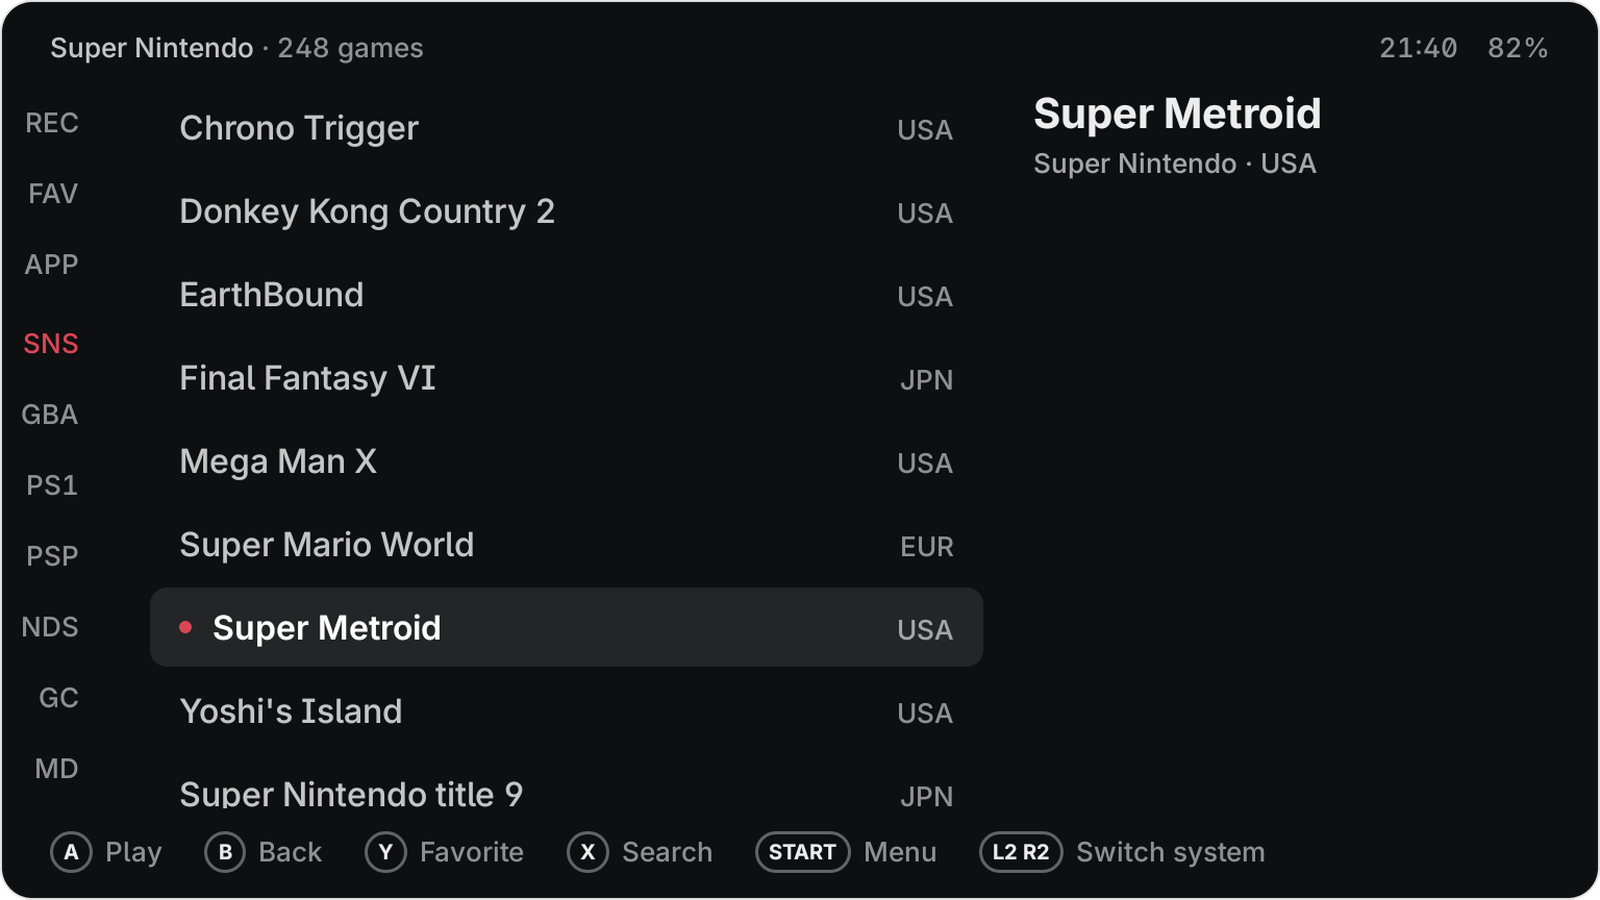
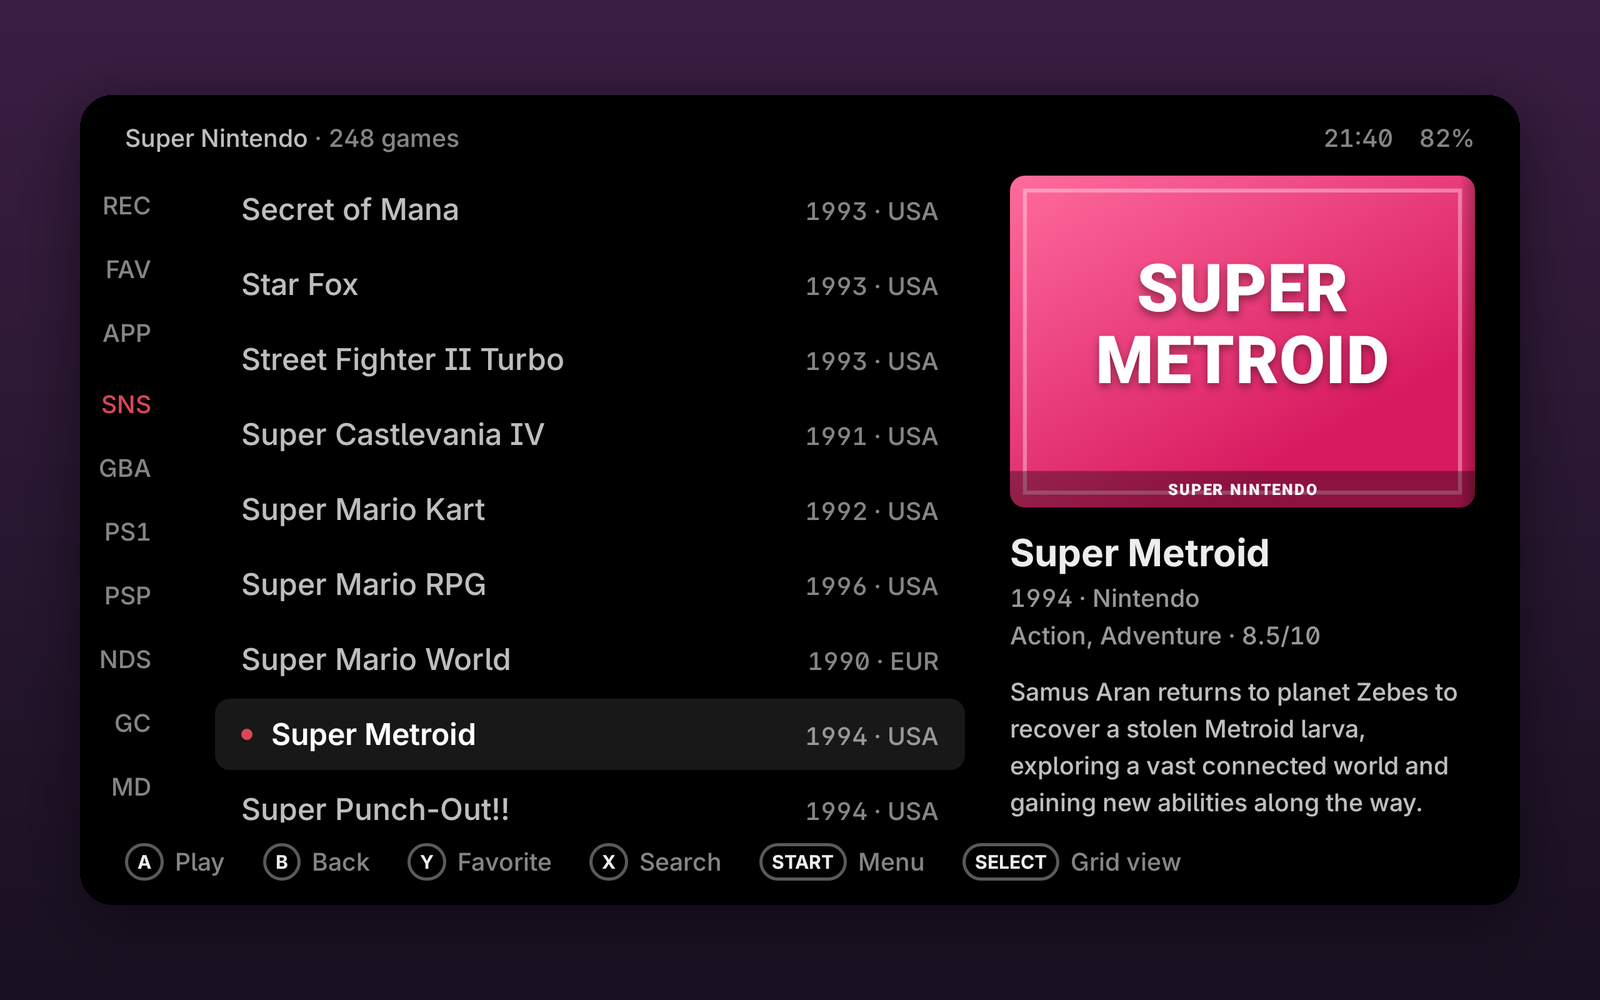
README images: one plum backdrop, colour sets in use, real game names

diff --git a/README.md b/README.md
@@ -4,7 +4,7 @@
 
 
 <p align="center">
-  <img src="media/hero.png" width="100%" alt="Plumemu on the AYN Thor: the Super Nintendo list with the chosen game's cover, year, maker, genre, rating and description on the right (the cover is a drawn stand-in); below, the same system as a grid of covers and Dreamcast with its system band in Ivory; then five smaller screens: Paper, Indigo search, Charcoal colors, Banana and the second screen">
+  <img src="media/hero.png" width="100%" alt="Plumemu on the AYN Thor in Indigo: the Super Nintendo list with Super Metroid chosen, its cover, year, maker, genre, rating and description on the right (covers are drawn stand-ins); below, Super Nintendo as a grid of covers in Pocket, Dreamcast with its system band in Banana, and search in Super">
 </p>
 
 <p align="center">
@@ -106,53 +106,53 @@
   Settings › Statistics turns them off at any time. [Privacy](PRIVACY.md) lists what is sent.
 
 <p align="center">
-  <img src="media/color-sets.png" width="100%" alt="The same Dreamcast screen in all ten ready-made color sets, tilted side by side: Plumemu, Paper, Pocket, Dot matrix, Super, Indigo, Charcoal, Ivory, Banana and Cream">
+  <img src="media/color-sets.png" width="100%" alt="The same Super Nintendo screen in all ten ready-made color sets, each named below: Plumemu, Paper, Pocket, Dot matrix, Super, Indigo, Charcoal, Ivory, Banana and Cream">
 </p>
 
 <table>
   <tr>
     <td width="50%"><img src="media/battery-in-game.png" alt="The lower screen while a game runs: the clock, the time left on this charge and a chart of this play's battery use"></td>
-    <td width="50%"><img src="media/system-card.png" alt="The lower screen's card for Dreamcast: the same facts, the number of games and the game played last"></td>
+    <td width="50%"><img src="media/system-card.png" alt="The lower screen's card for Super Nintendo: its badge, the number of games, the facts and the game played last"></td>
   </tr>
   <tr>
     <td align="center">How long your battery lasts, while you play</td>
     <td align="center">Each system's facts on the second screen</td>
   </tr>
   <tr>
-    <td width="50%"><img src="media/grid.png" alt="Super Nintendo as a grid of covers in dark colors, Donkey Kong Country 2 selected (the covers are drawn stand-ins)"></td>
-    <td width="50%"><img src="media/grid-light.png" alt="The same Super Nintendo grid in the light Paper colors"></td>
+    <td width="50%"><img src="media/grid.png" alt="Super Nintendo as a grid of covers in dark colors, F-Zero selected (the covers are drawn stand-ins)"></td>
+    <td width="50%"><img src="media/grid-light.png" alt="PlayStation as a smaller grid of covers in the light Paper colors, Final Fantasy VII selected"></td>
   </tr>
   <tr>
     <td align="center">Any system as a grid of covers</td>
     <td align="center">In three sizes, light or dark</td>
   </tr>
   <tr>
-    <td width="50%"><img src="media/system-info.png" alt="Dreamcast's games with a short band above them: its badge, Sega, home console, 1998 to 2001, and one line about it"></td>
-    <td width="50%"><img src="media/keyboard.png" alt="Search with Plumemu's own keyboard; the results stay in view above it"></td>
+    <td width="50%"><img src="media/system-info.png" alt="Super Nintendo's games in Ivory with a short band above them: its badge, Nintendo, home console, 1990 to 2003; Chrono Trigger's cover and description on the right"></td>
+    <td width="50%"><img src="media/keyboard.png" alt="Search in Indigo with Plumemu's own keyboard: zelda typed, eight results stay in view above it"></td>
   </tr>
   <tr>
     <td align="center">A few lines about each system</td>
     <td align="center">A keyboard made for the D-pad</td>
   </tr>
   <tr>
-    <td width="50%"><img src="media/four-three.png" alt="Plumemu on the Retroid Pocket Nova's 4:3 screen in a custom wine color: the systems with their game counts, Neo Geo chosen, and its games with the system band above them"></td>
+    <td width="50%"><img src="media/four-three.png" alt="Plumemu on a 4:3 screen in a custom wine color: the Super Nintendo list, with the chosen game's details peeking in from the right"></td>
     <td width="50%"><img src="media/system-codes.png" alt="Super Nintendo's games with a code per system in the narrow strip on the left: REC, FAV, APP, SNS, GBA, PS1, PSP, NDS, GC and MD"></td>
   </tr>
   <tr>
-    <td align="center">4:3 screens, like the Retroid Pocket Nova</td>
+    <td align="center">4:3 screens, like the Retroid Pocket Classic</td>
     <td align="center">Counts, system codes or a letter rail at the edge</td>
   </tr>
   <tr>
     <td width="50%"><img src="media/colors.png" alt="Settings › Appearance › Colors: the ten ready-made color sets, each shown as a small preview"></td>
-    <td width="50%"><img src="media/button-colors.png" alt="Game Boy Advance games in the Super color set, with the A, B, X and Y keys in red, yellow, blue and green"></td>
+    <td width="50%"><img src="media/button-colors.png" alt="Super Nintendo in the Banana color set, with the A, B, X and Y keys each in its own color; Zelda: A Link to the Past's cover and description on the right"></td>
   </tr>
   <tr>
     <td align="center">Ten ready-made color sets</td>
     <td align="center">A, B, X and Y in their classic colors</td>
   </tr>
   <tr>
-    <td width="50%"><img src="media/settings.png" alt="Settings › Library: ROM folders, Rescan library, Find new games automatically, Sort games, System order, Systems, ScreenScraper and Box art region"></td>
-    <td width="50%"><img src="media/update.png" alt="Settings › About: an update is available, with its notes and an Update button"></td>
+    <td width="50%"><img src="media/settings.png" alt="Settings › Library in Dot matrix: ROM folders, Rescan library, Find new games automatically, Sort games, System order, ScreenScraper and Box art region; the ROM folders on the right"></td>
+    <td width="50%"><img src="media/update.png" alt="Settings › About: version 0.0.8-beta is available, with its notes and an Update button"></td>
   </tr>
   <tr>
     <td align="center">Settings that say what they do</td>
